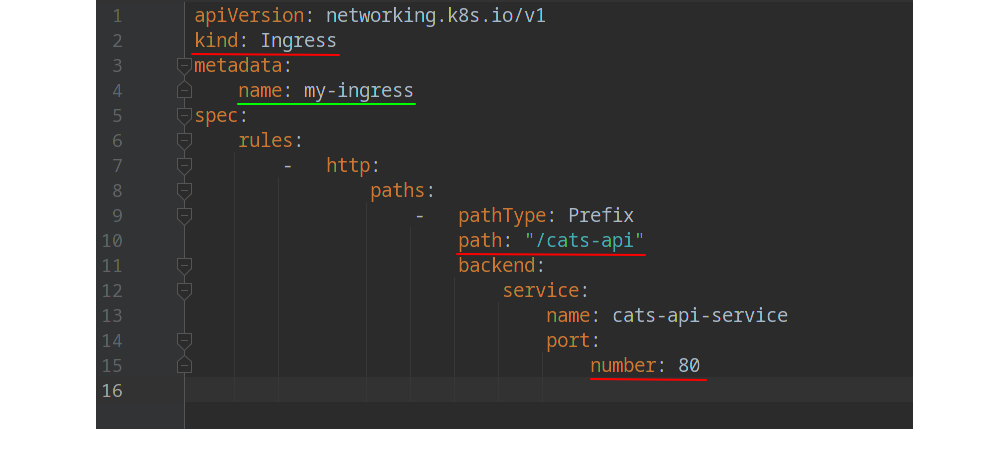
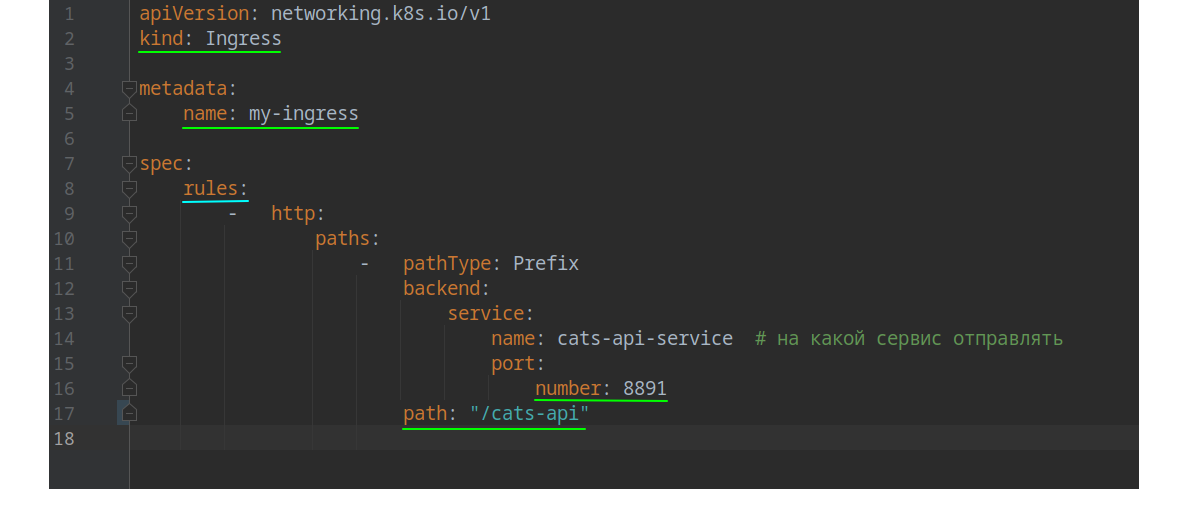
update 44

diff --git a/README.md b/README.md
@@ -384,9 +384,9 @@ correct and that the postmaster is accepting TCP/IP connections_
    ![](https://github.com/aleksey-nsk/cats-api/blob/master/screenshots/23_ingress_2.png)  
 
 - это и будет единая точка входа в наш кластер;
-- назвали `my-ingress`.
+- описали в этом файле **рулы (правила)**.  
 
-Применим этот конфиг:  
+Применим этот конфиг (создадим **Ingress Rules**):  
 `kubectl apply -f k8s/ingress.yaml` => _ingress.networking.k8s.io/my-ingress created_
 
 9. Посмотрим в файл **kind-config.yaml**. Тут видим порт (**hostPort: 8888**).  
